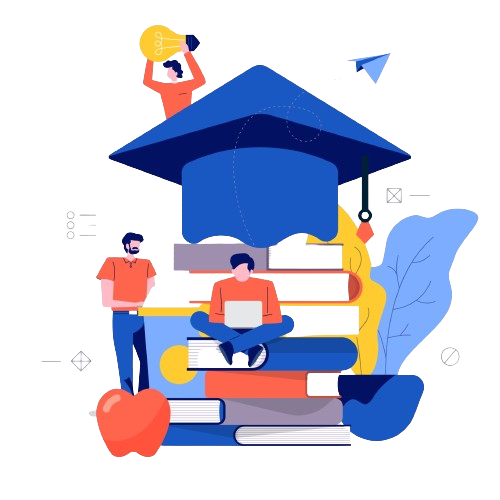
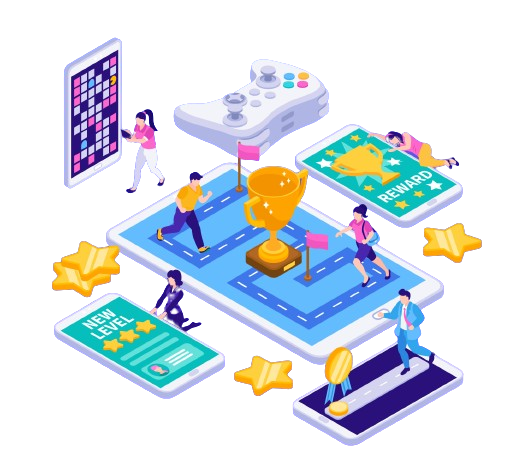
update condition button

diff --git a/src/modules/kualifikasi/riwayat-pekerjaan/index.jsx b/src/modules/kualifikasi/riwayat-pekerjaan/index.jsx
@@ -164,10 +164,7 @@ export default function RiwayatPekerjaanModule({ baseURL }) {
                   {row.area_kerja}
                 </td>
                 <td className="text-sm border-2 border-white bg-gray-50">
-                  {row.status == 1 ? (
-                    ""
-                  ) : (
-                    <div className="flex items-stretch gap-1">
+                <div className="flex items-stretch gap-1">
                       <Button.Icon
                         as="a"
                         href={`${baseURL}/riwayat-pekerjaan/detail/${row.rwyt_pekerjaan_id}`}
@@ -180,27 +177,31 @@ export default function RiwayatPekerjaanModule({ baseURL }) {
                           />
                         }
                       />
-                      <Button.Icon
-                        as="a"
-                        href={`${baseURL}/riwayat-pekerjaan/edit/${row.rwyt_pekerjaan_id}`}
-                        variant="secondary"
-                        icon={<Icon icon="bx:edit" width={20} height={20} />}
-                      />
-                      <Button.Icon
-                        variant="danger"
-                        icon={
-                          <Icon
-                            icon="solar:trash-bin-2-bold-duotone"
-                            width={20}
-                            height={20}
-                          />
-                        }
-                        onClick={() =>
-                          destroy(row.rwyt_pekerjaan_id).then(() => refresh())
-                        }
-                      />
+                  {(row.status === 0 || row.status === 2) && (
+                    <>
+                    <Button.Icon
+                      as="a"
+                      href={`${baseURL}/riwayat-pekerjaan/edit/${row.rwyt_pekerjaan_id}`}
+                      variant="secondary"
+                      icon={<Icon icon="bx:edit" width={20} height={20} />}
+                    />
+                    <Button.Icon
+                      variant="danger"
+                      icon={
+                        <Icon
+                          icon="solar:trash-bin-2-bold-duotone"
+                          width={20}
+                          height={20}
+                        />
+                      }
+                      onClick={() =>
+                        destroy(row.rwyt_pekerjaan_id).then(() => refresh())
+                      }
+                    />
+                    </>
+                    
+                    )}
                     </div>
-                  )}
                 </td>
               </tr>
             ))}

diff --git a/src/modules/kualifikasi/pendidikan-formal/index.jsx b/src/modules/kualifikasi/pendidikan-formal/index.jsx
@@ -163,9 +163,6 @@ export default function PendidikanFormalModule({ baseURL }) {
                   {row.gelar_akademik}
                 </td>
                 <td className="text-sm border-2 border-white bg-gray-50">
-                  {row.status == 1 ? (
-                    ""
-                  ) : (
                     <div className="flex items-stretch gap-1">
                       <Button.Icon
                         as="a"
@@ -179,6 +176,8 @@ export default function PendidikanFormalModule({ baseURL }) {
                           />
                         }
                       />
+                  {(row.status === 0 || row.status === 2) && ( 
+                      <>
                       <Button.Icon
                         as="a"
                         href={`${baseURL}/pendidikan-formal/edit/${row.pend_id}`}
@@ -198,8 +197,9 @@ export default function PendidikanFormalModule({ baseURL }) {
                           destroy(row.pend_id).then(() => refresh())
                         }
                       />
-                    </div>
+                      </>
                   )}
+                  </div>
                 </td>
               </tr>
             ))}

diff --git a/src/modules/kompetensi/sertifikasi/index.jsx b/src/modules/kompetensi/sertifikasi/index.jsx
@@ -186,7 +186,7 @@ export default function SertifikasiModule({ baseURL }) {
                           />
                         }
                       />
-                  {row.status === 0 && (
+                  {(row.status === 0 || row.status === 2) && (
                       <>
                         <Button.Icon
                         as="a"

diff --git a/src/modules/kompetensi/tes/index.jsx b/src/modules/kompetensi/tes/index.jsx
@@ -165,7 +165,7 @@ export default function TesModule({ baseURL }) {
                         />
                       }
                     />
-                  {row.status === 0 (
+                  {(row.status === 0 || row.status === 2) &&  (
                       <>
                         <Button.Icon
                           as="a"

diff --git a/src/modules/pelaksanaan-penelitian/hki/index.jsx b/src/modules/pelaksanaan-penelitian/hki/index.jsx
@@ -163,7 +163,7 @@ export default function HKIModule({ baseURL }) {
                           />
                         }
                       />
-                  {row.status === 0 && (
+                  {(row.status === 0 || row.status === 2) && (
                     <>
                       <CreateDokumen id={{ hki_id: row.hki_id }} />
                       

diff --git a/src/modules/pelaksanaan-penelitian/penelitian/index.jsx b/src/modules/pelaksanaan-penelitian/penelitian/index.jsx
@@ -163,7 +163,7 @@ export default function PenelitianModule({ baseURL }) {
                           />
                         }
                       />
-                  {row.status == 0 && (
+                  {(row.status === 0 || row.status === 2) && (
                       <>
                         <CreateDokumen
                         id={{ penelitian_id: row.penelitian_id }}

diff --git a/src/modules/pelaksanaan-penelitian/publikasi-karya/index.jsx b/src/modules/pelaksanaan-penelitian/publikasi-karya/index.jsx
@@ -163,7 +163,7 @@ export default function PublikasiKaryaModule({ baseURL }) {
                           />
                         }
                       />
-                  {row.status === 0 && (
+                  {(row.status === 0 || row.status === 2) && (
                     <>
                       <CreateDokumen id={{ publikasi_id: row.publikasi_id }} />
                       

diff --git a/src/modules/pelaksanaan-pengabdian/pembicara/index.jsx b/src/modules/pelaksanaan-pengabdian/pembicara/index.jsx
@@ -163,7 +163,7 @@ export default function PembicaraModule({ baseURL }) {
                         />
                       }
                     />
-                  {row.status === 0 && (
+                  {(row.status === 0 || row.status === 2) && (
                       <>
                         <CreateDokumen id={{ pembicara_id: row.pembicara_id }} />
                         

diff --git a/src/modules/pelaksanaan-pengabdian/pengabdian/index.jsx b/src/modules/pelaksanaan-pengabdian/pengabdian/index.jsx
@@ -163,7 +163,7 @@ export default function PengabdianModule({ baseURL }) {
                           />
                         }
                       />
-                  {row.status === 0 && (
+                  {(row.status === 0 || row.status === 2) && (
                     <>
                       <CreateDokumen
                         id={{ pengabdian_id: row.pengabdian_id }}

diff --git a/src/modules/penunjang/anggota-profesi/index.jsx b/src/modules/penunjang/anggota-profesi/index.jsx
@@ -160,7 +160,7 @@ export default function AnggotaProfesiModule({ baseURL }) {
                         />
                       }
                     />
-                  {row.status === 0 && (  
+                  {(row.status === 0 || row.status === 2) && (  
                     <>                   
                       <Button.Icon
                         as="a"

diff --git a/src/modules/penunjang/penghargaan/index.jsx b/src/modules/penunjang/penghargaan/index.jsx
@@ -185,7 +185,7 @@ export default function PenghargaanModule({ baseURL }) {
                         />
                       }
                     />
-                  {row.status === 0 (
+                  {(row.status === 0 || row.status === 2) && (
                     <>
                     
                     <Button.Icon